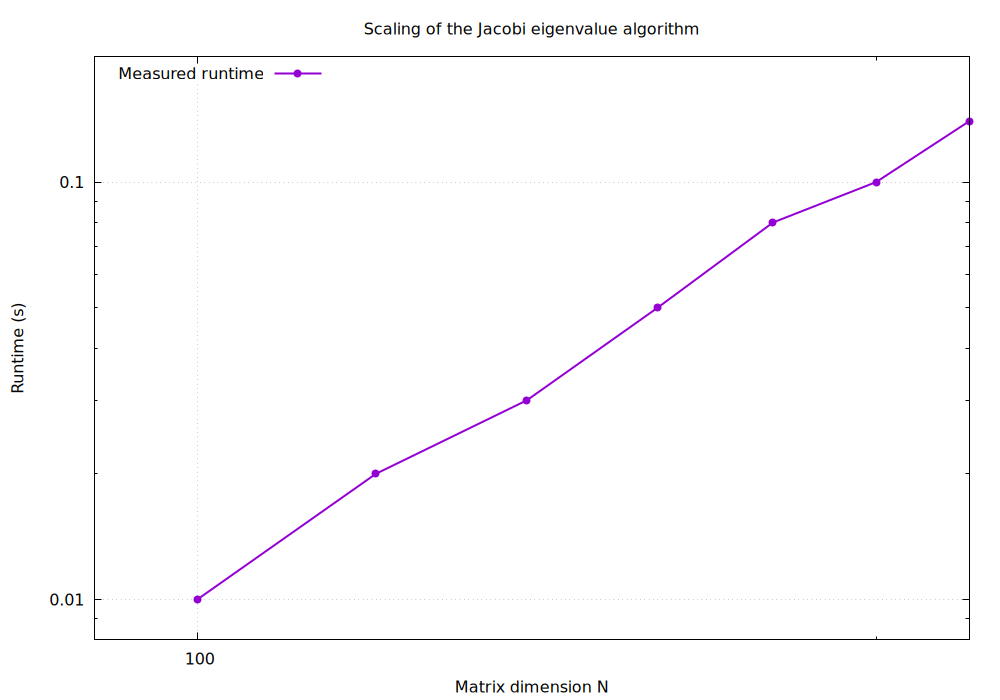
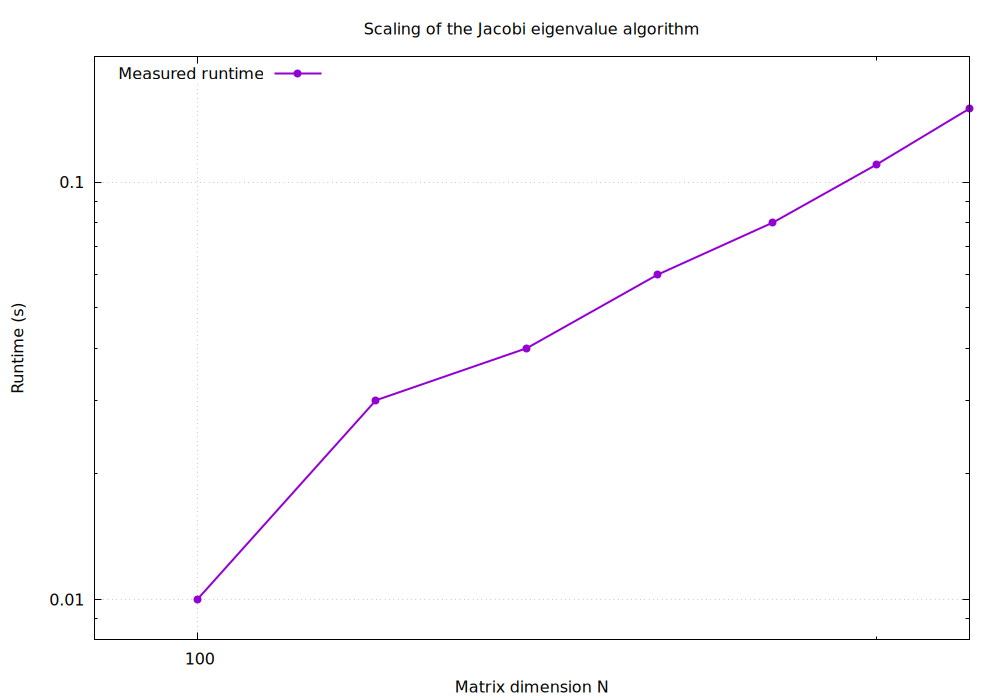
Fourth push

diff --git a/examination_project/README.md b/examination_project/README.md
@@ -41,7 +41,7 @@ where a'i is the i-th column of matrix A' and ui us the i-th column of matrix U.
 
 From  equation (13) in the book https://fedorov.sdfeu.org/prog/book/eigen.pdf 
 
-a_p' = c*a_p - s*a_q
+a_p' = c*a_p - s*a_q and  
 a_q' = s*a_p + c*a_q
 
 Which are the collums after a Jacobi rotation.
